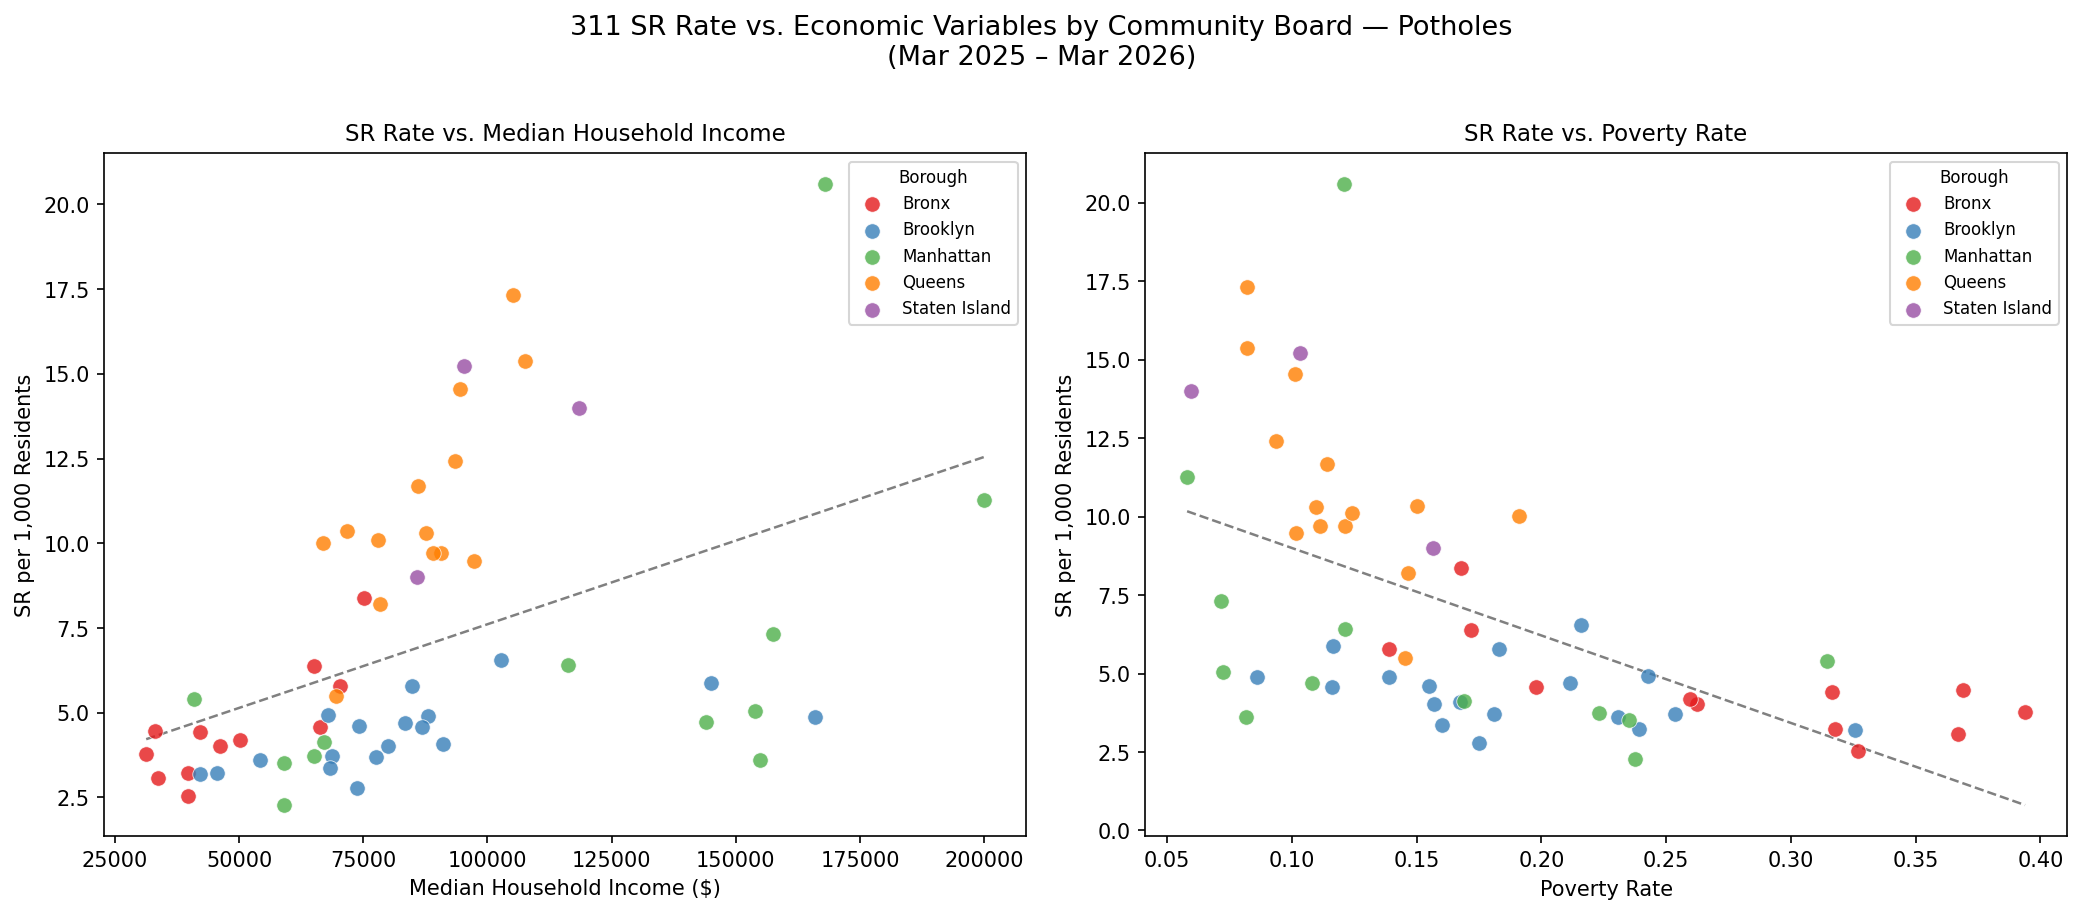
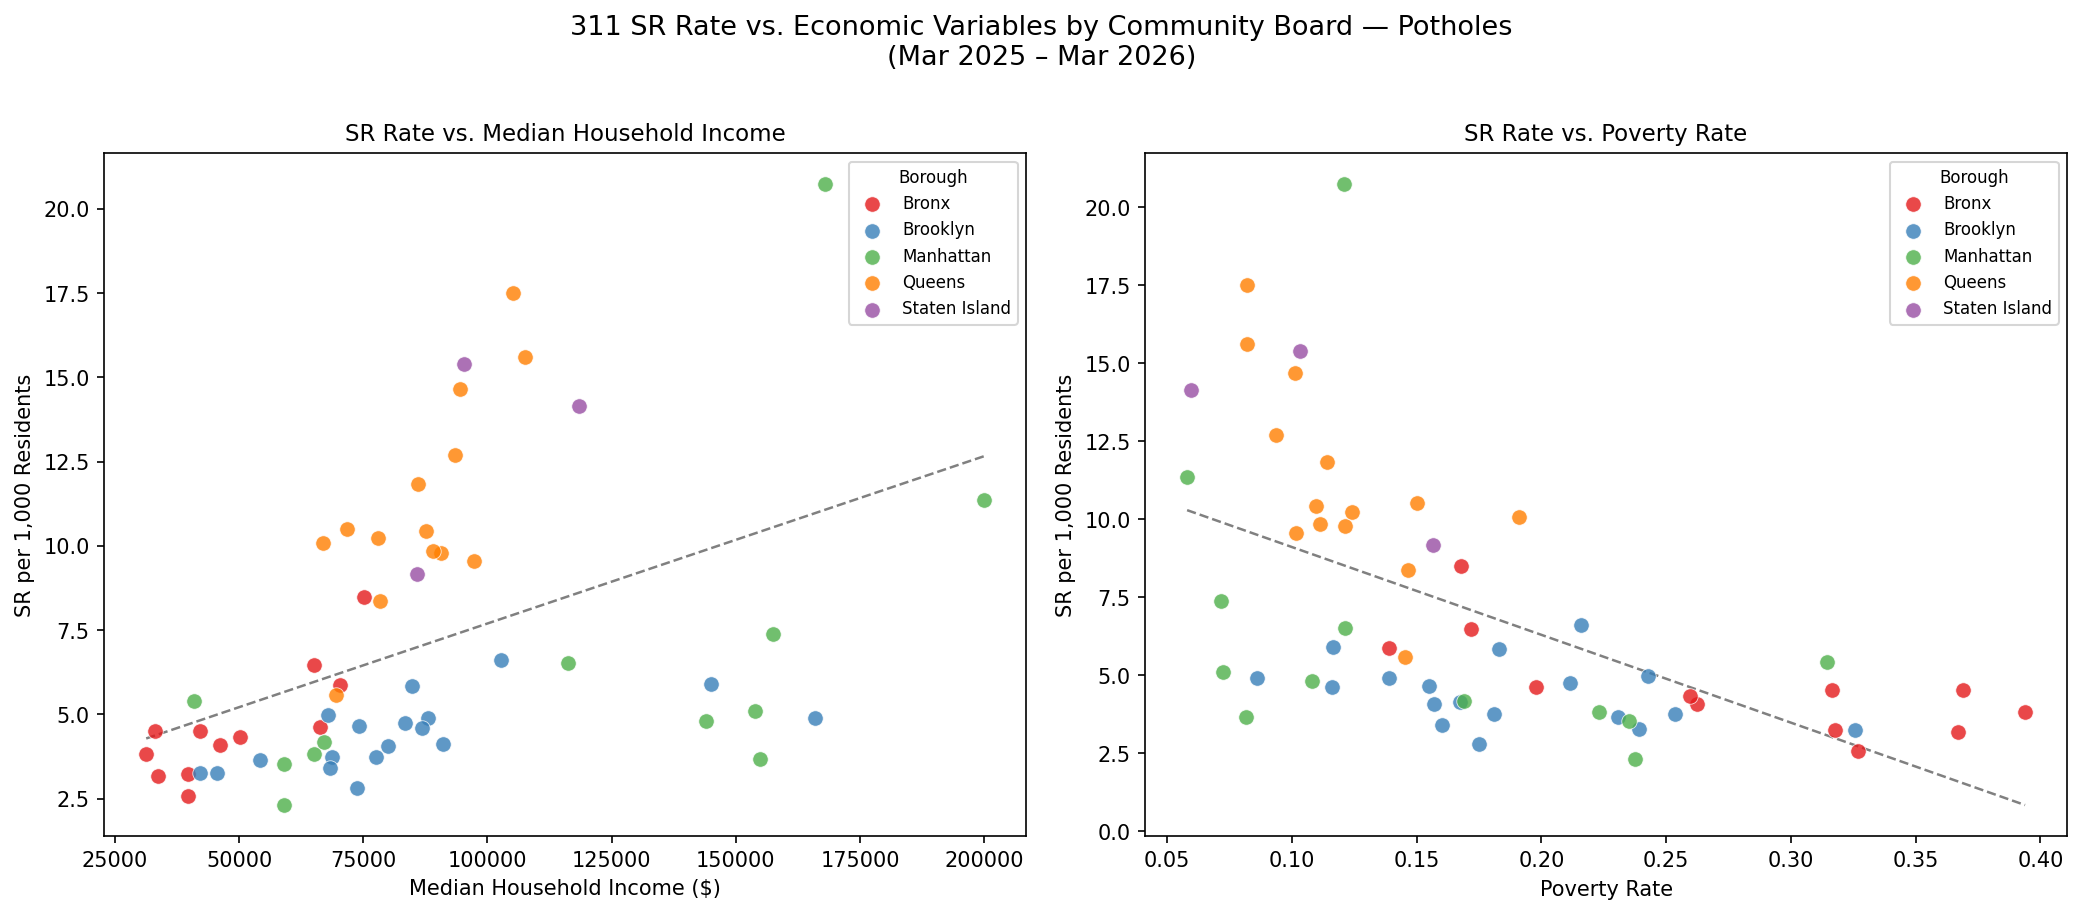
Add lep graphs

diff --git a/src/dmo_311_quality/visualize/scatter.py b/src/dmo_311_quality/visualize/scatter.py
@@ -5,7 +5,9 @@ import matplotlib.pyplot as plt
 import pandas as pd
 from matplotlib.axes import Axes
 
-from dmo_311_quality.utils.config_paths import PROCESSED_DATA_DIR, ROOT_DIR
+from dmo_311_quality.utils.config_paths import (
+    PROCESSED_DATA_DIR, ROOT_DIR, SR_WINDOW_START, SR_WINDOW_END,
+)
 
 # %%
 FIGURES_DIR = ROOT_DIR / 'output' / 'figures'
@@ -17,6 +19,39 @@ BOROUGH_COLORS: dict[str, str] = {
     'Queens': '#ff7f00',
     'Staten Island': '#984ea3',
 }
+
+_COMPLAINT_LABELS: dict[str, str] = {
+    'all': 'All SRs',
+    'potholes': 'Potholes',
+    'rodents': 'Rodents',
+}
+
+_DIMENSION_CONFIG: dict[str, dict] = {
+    'economic': {
+        'parquet_prefix': '311_acs_economic',
+        'output_stem': 'scatter_sr_income',
+        'panels': [
+            {'x_col': 'MdHHIncE',    'xlabel': 'Median Household Income ($)', 'title': 'SR Rate vs. Median Household Income'},
+            {'x_col': 'poverty_rate', 'xlabel': 'Poverty Rate',                'title': 'SR Rate vs. Poverty Rate'},
+        ],
+        'suptitle_prefix': 'SR Rate vs. Economic Variables',
+    },
+    'language': {
+        'parquet_prefix': '311_acs_language',
+        'output_stem': 'scatter_sr_language',
+        'panels': [
+            {'x_col': 'lep_rate', 'xlabel': 'LEP Rate', 'title': 'SR Rate vs. LEP Rate'},
+        ],
+        'suptitle_prefix': 'SR Rate vs. LEP Rate',
+    },
+}
+
+
+def _fmt_yyyymm(yyyymm: int) -> str:
+    """Convert YYYYMM integer to 'Mon YYYY' string (e.g. 202503 → 'Mar 2025')."""
+    import calendar
+    year, month = divmod(yyyymm, 100)
+    return f'{calendar.month_abbr[month]} {year}'
 
 
 # %%
@@ -66,47 +101,57 @@ def make_scatter(
 
 
 # %%
-_COMPLAINT_LABELS: dict[str, str] = {
-    'all': 'All SRs',
-    'potholes': 'Potholes',
-    'rodents': 'Rodents',
-}
+def plot_scatter(complaint_type: str = 'all', dimension: str = 'economic') -> None:
+    """Build and save a scatter figure for the given complaint type and dimension.
 
-if __name__ == '__main__':
+    Loads the appropriate enriched parquet, draws one panel per dimension
+    variable, and saves to output/figures/.
+
+    Args:
+        complaint_type: One of 'all', 'potholes', 'rodents'.
+        dimension: One of 'economic' or 'language'.
+    """
+    cfg = _DIMENSION_CONFIG[dimension]
+    suffix = '' if complaint_type == 'all' else f'_{complaint_type}'
+    df = pd.read_parquet(PROCESSED_DATA_DIR / f'{cfg["parquet_prefix"]}{suffix}.parquet')
+
+    label = _COMPLAINT_LABELS[complaint_type]
+    date_range = f'{_fmt_yyyymm(SR_WINDOW_START)} – {_fmt_yyyymm(SR_WINDOW_END)}'
+    n_panels = len(cfg['panels'])
+
+    fig, axes = plt.subplots(1, n_panels, figsize=(7 * n_panels, 6))
+    if n_panels == 1:
+        axes = [axes]
+
+    fig.suptitle(
+        f'311 {cfg["suptitle_prefix"]} by Community Board — {label}\n({date_range})',
+        fontsize=13,
+        y=1.01,
+    )
+
+    for ax, panel in zip(axes, cfg['panels']):
+        make_scatter(
+            ax, df,
+            x_col=panel['x_col'],
+            y_col='sr_per_1k',
+            xlabel=panel['xlabel'],
+            ylabel='SR per 1,000 Residents',
+            title=panel['title'],
+        )
+
+    plt.tight_layout()
+
     FIGURES_DIR.mkdir(parents=True, exist_ok=True)
+    out_path = FIGURES_DIR / f'{cfg["output_stem"]}_{complaint_type}.png'
+    fig.savefig(out_path, dpi=150, bbox_inches='tight')
+    plt.close(fig)
+    print(f'Saved figure → {out_path}')
 
-    for complaint_type, label in _COMPLAINT_LABELS.items():
-        suffix = '' if complaint_type == 'all' else f'_{complaint_type}'
-        df = pd.read_parquet(PROCESSED_DATA_DIR / f'311_acs_economic{suffix}.parquet')
 
-        fig, axes = plt.subplots(1, 2, figsize=(14, 6))
-        fig.suptitle(
-            f'311 SR Rate vs. Economic Variables by Community Board — {label}\n(Mar 2025 – Mar 2026)',
-            fontsize=13,
-            y=1.01,
-        )
-
-        make_scatter(
-            axes[0], df,
-            x_col='MdHHIncE', y_col='sr_per_1k',
-            xlabel='Median Household Income ($)',
-            ylabel='SR per 1,000 Residents',
-            title='SR Rate vs. Median Household Income',
-        )
-
-        make_scatter(
-            axes[1], df,
-            x_col='poverty_rate', y_col='sr_per_1k',
-            xlabel='Poverty Rate',
-            ylabel='SR per 1,000 Residents',
-            title='SR Rate vs. Poverty Rate',
-        )
-
-        plt.tight_layout()
-
-        out_path = FIGURES_DIR / f'scatter_sr_income_{complaint_type}.png'
-        fig.savefig(out_path, dpi=150, bbox_inches='tight')
-        plt.close(fig)
-        print(f'Saved figure to {out_path}')
+# %%
+if __name__ == '__main__':
+    for dim in ['economic', 'language']:
+        for ct in _COMPLAINT_LABELS:
+            plot_scatter(ct, dim)
 
 # %%

diff --git a/src/dmo_311_quality/analyze/correlations.py b/src/dmo_311_quality/analyze/correlations.py
@@ -6,43 +6,53 @@ from dmo_311_quality.utils.config_paths import PROCESSED_DATA_DIR, ROOT_DIR
 
 REPORTS_DIR = ROOT_DIR / 'output' / 'reports'
 
+_DIMENSION_CONFIG: dict[str, dict] = {
+    'economic': {
+        'parquet_prefix': '311_acs_economic',
+        'variables': {
+            'MdHHIncE': 'Median Household Income',
+            'PerCapIncE': 'Per Capita Income',
+            'poverty_rate': 'Poverty Rate',
+        },
+        'output_stem': 'correlation_sr_income',
+    },
+    'language': {
+        'parquet_prefix': '311_acs_language',
+        'variables': {
+            'lep_rate': 'LEP Rate',
+        },
+        'output_stem': 'correlation_sr_language',
+    },
+}
+
 
 # %%
-def compute_correlation(complaint_type: str = 'all') -> pd.DataFrame:
-    """Compute Pearson correlations between sr_per_1k and economic variables.
-
-    Loads the enriched economic parquet for the given complaint_type and
-    computes Pearson r and p-value for sr_per_1k vs MdHHIncE, PerCapIncE,
-    and poverty_rate. Saves results to
-    output/reports/correlation_sr_income_{complaint_type}.csv.
+def compute_correlation(complaint_type: str = 'all', dimension: str = 'economic') -> pd.DataFrame:
+    """Compute Pearson correlations between sr_per_1k and dimension variables.
 
     Args:
-        complaint_type: One of 'all', 'potholes', 'rodents'. Controls which
-            economic parquet is loaded and the output filename.
+        complaint_type: One of 'all', 'potholes', 'rodents'.
+        dimension: One of 'economic' or 'language'. Controls which parquet is
+            loaded, which variables are correlated, and the output filename.
 
     Returns:
         DataFrame with columns: variable, pearson_r, p_value.
     """
+    cfg = _DIMENSION_CONFIG[dimension]
     suffix = '' if complaint_type == 'all' else f'_{complaint_type}'
-    df = pd.read_parquet(PROCESSED_DATA_DIR / f'311_acs_economic{suffix}.parquet')
-
-    variables = {
-        'MdHHIncE': 'Median Household Income',
-        'PerCapIncE': 'Per Capita Income',
-        'poverty_rate': 'Poverty Rate',
-    }
+    df = pd.read_parquet(PROCESSED_DATA_DIR / f'{cfg["parquet_prefix"]}{suffix}.parquet')
 
     rows = []
-    for col, label in variables.items():
+    for col, label in cfg['variables'].items():
         r, p = stats.pearsonr(df['sr_per_1k'], df[col])
         rows.append({'variable': label, 'pearson_r': round(r, 3), 'p_value': round(p, 4)})
 
     results = pd.DataFrame(rows)
-    print(f'\n[{complaint_type}]')
+    print(f'\n[{dimension} | {complaint_type}]')
     print(results.to_string(index=False))
 
     REPORTS_DIR.mkdir(parents=True, exist_ok=True)
-    out_path = REPORTS_DIR / f'correlation_sr_income_{complaint_type}.csv'
+    out_path = REPORTS_DIR / f'{cfg["output_stem"]}_{complaint_type}.csv'
     results.to_csv(out_path, index=False)
     print(f'\nCorrelation table saved → {out_path}')
     return results
@@ -50,7 +60,8 @@ def compute_correlation(complaint_type: str = 'all') -> pd.DataFrame:
 
 # %%
 if __name__ == '__main__':
-    for ct in ['all', 'potholes', 'rodents']:
-        df_corr = compute_correlation(ct)
+    for dim in ['economic', 'language']:
+        for ct in ['all', 'potholes', 'rodents']:
+            df_corr = compute_correlation(ct, dim)
 
 # %%

diff --git a/src/dmo_311_quality/analyze/run_analyze.py b/src/dmo_311_quality/analyze/run_analyze.py
@@ -8,7 +8,11 @@ def main() -> None:
     """Run all analysis steps in order and save outputs to output/reports/."""
     print('--- Analyze: SR rate vs. economic variables (Pearson correlation) ---')
     for ct in ['all', 'potholes', 'rodents']:
-        compute_correlation(ct)
+        compute_correlation(ct, 'economic')
+
+    print('--- Analyze: SR rate vs. language (LEP rate) (Pearson correlation) ---')
+    for ct in ['all', 'potholes', 'rodents']:
+        compute_correlation(ct, 'language')
 
     print('\nAnalysis complete.')
 
